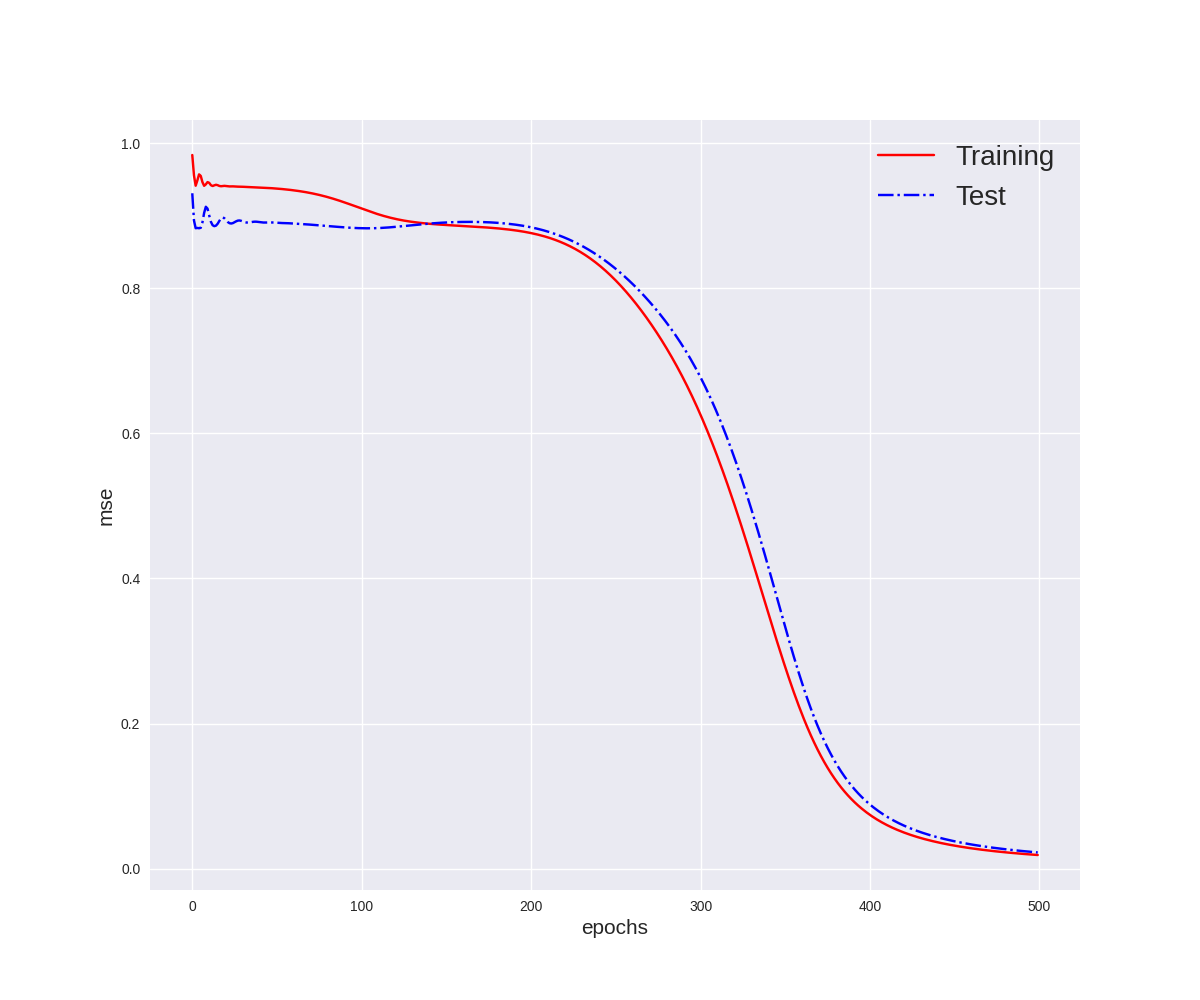
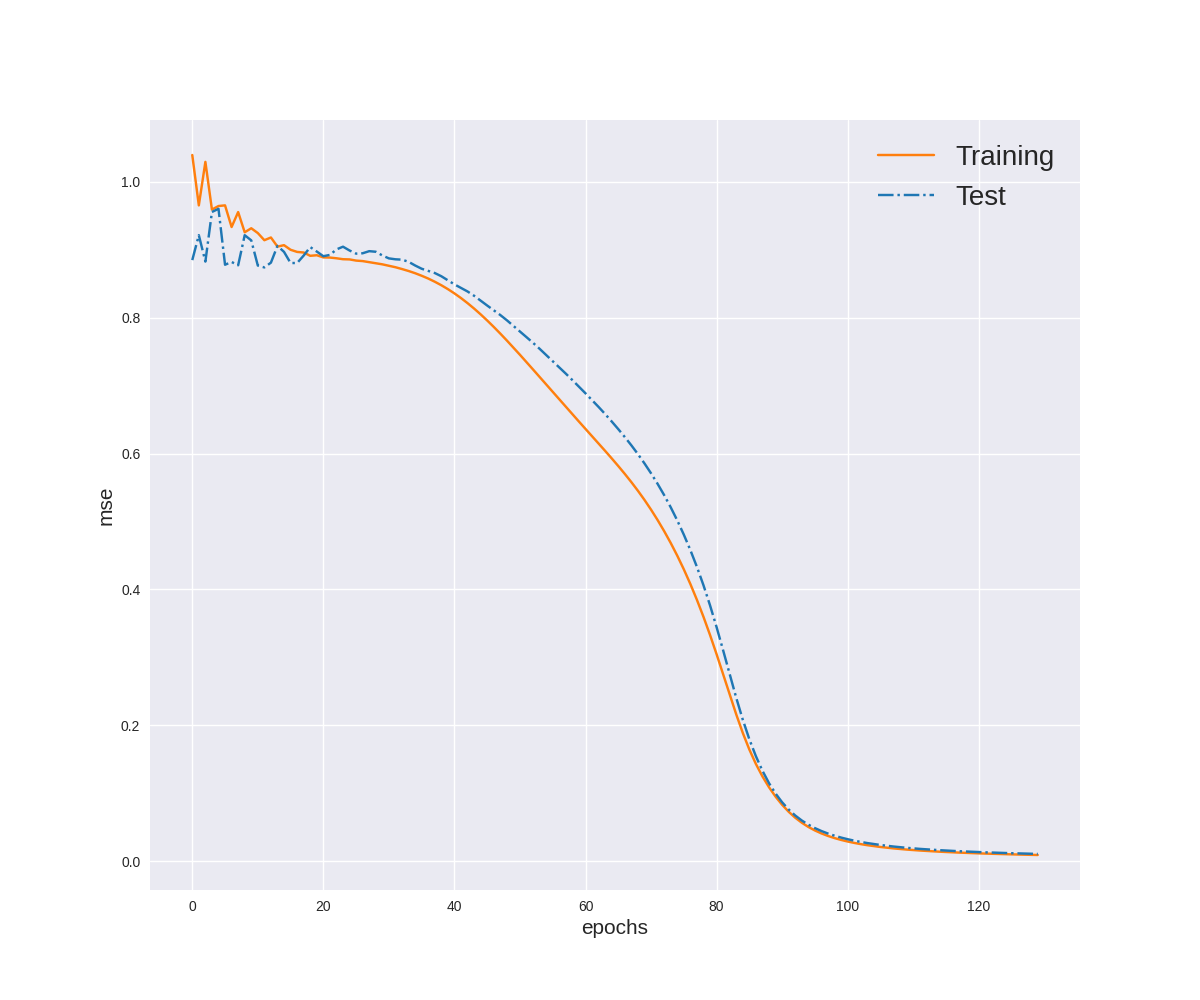
update Monks results

diff --git a/single_monk_test2.py b/single_monk_test2.py
@@ -3,19 +3,20 @@ from parser import Monks_parser
 from utility import set_style_plot
 from utility import *
 from kernel_initialization import *
+from optimizers import *
 
 set_style_plot()
 
-DIR_DATA = "/home/fabsam/Documenti/masterDegree/ML/ml_project/data/monks/"
+DIR_DATA = "./data/monks/"
 TR_FILE = 'monks-2.train'
 TS_FILE = 'monks-2.test'
 
 
 path_tr = DIR_DATA + TR_FILE
 path_ts = DIR_DATA + TS_FILE
-path_loss = 'out/monks/monk2/err_monk2.png'
-path_acc = 'out/monks/monk2/acc_monk2.png'
-path_result_model = 'out/monks/monk2/results.csv'
+path_loss = './out/monks/monk2/err_monk2.png'
+path_acc = './out/monks/monk2/acc_monk2.png'
+path_result_model = './out/monks/monk2/results.csv'
 
 dim_in = 6
 one_hot = 17
@@ -30,7 +31,7 @@ Y_test = change_output_value(Y_test, 0, -1)
 
 
 dim_in = one_hot
-dim_hid = 3
+dim_hid = 2
 n_attemps = 5
 
 res_losses = np.zeros(n_attemps)
@@ -42,16 +43,16 @@ res_metrics_ts = np.zeros(n_attemps)
 for i in range(n_attemps):
     model = NeuralNetwork('mse', 'accuracy1-1')
 
-    model.add_layer(dim_hid, input_dim=dim_in, activation='sigmoid', kernel_initialization=RandomUniformInitialization())
-    model.add_output_layer(dim_out, activation='tanh', kernel_initialization=RandomUniformInitialization())
+    model.add_layer(dim_hid, input_dim=dim_in, activation='sigmoid',
+                    kernel_initialization=RandomUniformInitialization())
+    model.add_layer(dim_out, activation='tanh', kernel_initialization=RandomUniformInitialization(-1, 1))
 
-    model.compile(0.6, 0.8)
-    history = model.fit(
-        X_train, Y_train, 500, X_train.shape[0], ts=(X_test, Y_test),
-        verbose=True
-    )
-    #if i == 0:
-    #    write_results(res=None, model=model, save_plot_loss=path_loss, save_plot_metric=path_acc, test=True)
+    model.compile(optimizer=SGD(lr=0.5, mom=0.8))
+    history = model.fit(X_train, Y_train, 130, X_train.shape[0], ts=(X_test, Y_test),
+                        verbose=True
+                        )
+    if i == 0:
+        write_results(res=None, model=model, save_plot_loss=path_loss, save_plot_metric=path_acc, test=True)
     res_losses[i] = history['mse'][-1]
     res_losses_ts[i] = history['test_mse'][-1]
     res_metrics[i] = history['accuracy'][-1]*100
@@ -68,4 +69,4 @@ res = {
 }
 
 print(res)
-#write_results(res, model=None, save_result=path_result_model, test=True)
+write_results(res, model=None, save_result=path_result_model, test=True)

diff --git a/single_monk_test3.py b/single_monk_test3.py
@@ -3,19 +3,19 @@ from parser import Monks_parser
 from utility import set_style_plot
 from utility import *
 from kernel_initialization import *
+from optimizers import *
 
 set_style_plot()
 
-DIR_DATA = "/home/fabsam/Documenti/masterDegree/ML/ml_project/data/monks/"
+DIR_DATA = "./data/monks/"
 TR_FILE = 'monks-3.train'
 TS_FILE = 'monks-3.test'
 
-
 path_tr = DIR_DATA + TR_FILE
 path_ts = DIR_DATA + TS_FILE
-path_loss = 'out/monks/monk3/err_monk3.png'
-path_acc = 'out/monks/monk3/acc_monk3.png'
-path_result_model = 'out/monks/monk3/results.csv'
+path_loss = './out/monks/monk3/err_monk3.png'
+path_acc = './out/monks/monk3/acc_monk3.png'
+path_result_model = './out/monks/monk3/results.csv'
 
 dim_in = 6
 one_hot = 17
@@ -25,10 +25,9 @@ parser = Monks_parser(path_tr, path_ts)
 
 X_train, Y_train, X_test, Y_test = parser.parse(dim_in, dim_out, one_hot)
 
-'''
+
 Y_train = change_output_value(Y_train, 0, -1)
 Y_test = change_output_value(Y_test, 0, -1)
-'''
 
 dim_in = one_hot
 dim_hid = 3
@@ -41,16 +40,17 @@ res_losses_ts = np.zeros(n_attemps)
 res_metrics_ts = np.zeros(n_attemps)
 
 for i in range(n_attemps):
-    model = NeuralNetwork('mse', 'accuracy')
+    model = NeuralNetwork('mse', 'accuracy1-1')
 
-    model.add_layer(dim_hid, input_dim=dim_in, activation='relu', kernel_initialization=RandomUniformInitialization())
-    model.add_output_layer(dim_out, activation='sigmoid', kernel_initialization=RandomUniformInitialization())
+    model.add_layer(dim_hid, input_dim=dim_in, activation='sigmoid',
+                    kernel_initialization=RandomNormalInitialization())
+    model.add_layer(dim_out, activation='tanh', kernel_initialization=RandomNormalInitialization())
 
-    model.compile(0.4, 0.6, 0.005)
-    history = model.fit(
-        X_train, Y_train, 500, X_train.shape[0], ts=(X_test, Y_test),
-        verbose=True
-    )
+    model.compile(optimizer=SGD(lr=0.5, mom=0.8, l2=0.01))
+
+    history = model.fit(X_train, Y_train, 200, X_train.shape[0], ts=(X_test, Y_test),
+                        verbose=True
+                        )
     if i == 0:
         write_results(res=None, model=model, save_plot_loss=path_loss, save_plot_metric=path_acc, test=True)
     res_losses[i] = history['mse'][-1]

diff --git a/single_monk_test3nr.py b/single_monk_test3nr.py
@@ -3,19 +3,21 @@ from parser import Monks_parser
 from utility import set_style_plot
 from utility import *
 from kernel_initialization import *
+from optimizers import *
 
 set_style_plot()
 
-DIR_DATA = "/home/fabsam/Documenti/masterDegree/ML/ml_project/data/monks/"
+DIR_DATA = "./data/monks/"
 TR_FILE = 'monks-3.train'
 TS_FILE = 'monks-3.test'
 
 
 path_tr = DIR_DATA + TR_FILE
 path_ts = DIR_DATA + TS_FILE
-path_loss = 'out/monks/monk3/err_monk3nr.png'
-path_acc = 'out/monks/monk3/acc_monk3nr.png'
-path_result_model = 'out/monks/monk3/results_nr.csv'
+path_loss = './out/monks/monk3/err_monk3nr.png'
+path_acc = './out/monks/monk3/acc_monk3nr.png'
+path_result_model = './out/monks/monk3/results_nr.csv'
+
 
 dim_in = 6
 one_hot = 17
@@ -25,10 +27,9 @@ parser = Monks_parser(path_tr, path_ts)
 
 X_train, Y_train, X_test, Y_test = parser.parse(dim_in, dim_out, one_hot)
 
-'''
+
 Y_train = change_output_value(Y_train, 0, -1)
 Y_test = change_output_value(Y_test, 0, -1)
-'''
 
 dim_in = one_hot
 dim_hid = 3
@@ -41,16 +42,17 @@ res_losses_ts = np.zeros(n_attemps)
 res_metrics_ts = np.zeros(n_attemps)
 
 for i in range(n_attemps):
-    model = NeuralNetwork('mse', 'accuracy')
 
-    model.add_layer(dim_hid, input_dim=dim_in, activation='relu', kernel_initialization=RandomUniformInitialization())
-    model.add_output_layer(dim_out, activation='sigmoid', kernel_initialization=RandomUniformInitialization())
+    model = NeuralNetwork('mse', 'accuracy1-1')
 
-    model.compile(0.4, 0.6, 0.0)
-    history = model.fit(
-        X_train, Y_train, 500, X_train.shape[0], ts=(X_test, Y_test),
-        verbose=True
-    )
+    model.add_layer(dim_hid, input_dim=dim_in, activation='sigmoid', kernel_initialization=RandomNormalInitialization())
+    model.add_layer(dim_out, activation='tanh', kernel_initialization=RandomNormalInitialization())
+
+    model.compile(optimizer=SGD(lr=0.5, mom=0.8, l2=0.0))
+
+    history = model.fit(X_train, Y_train, 200, X_train.shape[0], ts=(X_test, Y_test),
+                        verbose=True
+                        )
     if i == 0:
         write_results(res=None, model=model, save_plot_loss=path_loss, save_plot_metric=path_acc, test=True)
     res_losses[i] = history['mse'][-1]

diff --git a/test_monks.py b/test_monks.py
@@ -11,7 +11,6 @@ DIR_DATA = "./data/monks/"
 TR_FILE = 'monks-2.train'
 TS_FILE = 'monks-2.test'
 
-
 path_tr = DIR_DATA + TR_FILE
 path_ts = DIR_DATA + TS_FILE
 
@@ -23,22 +22,20 @@ parser = Monks_parser(path_tr, path_ts)
 
 X_train, Y_train, X_test, Y_test = parser.parse(dim_in, dim_out, one_hot)
 
-
 Y_train = change_output_value(Y_train, 0, -1)
 Y_test = change_output_value(Y_test, 0, -1)
 
-
 dim_in = one_hot
 dim_hid = 2
-
 model = NeuralNetwork('mse', 'accuracy1-1')
 
-model.add_layer(dim_hid, input_dim=dim_in, activation='sigmoid', kernel_initialization=RandomNormalInitialization())
-model.add_layer(dim_out, activation='tanh', kernel_initialization=RandomNormalInitialization())
+model.add_layer(dim_hid, input_dim=dim_in, activation='sigmoid',
+                kernel_initialization=RandomUniformInitialization())
+model.add_layer(dim_out, activation='tanh', kernel_initialization=RandomUniformInitialization(-1, 1))
 
 model.compile(optimizer=SGD(lr=0.5, mom=0.8))
-history = model.fit(X_train, Y_train, 90, X_train.shape[0], ts=(X_test, Y_test),
-    verbose=True
-)
+history = model.fit(X_train, Y_train, 120, X_train.shape[0], ts=(X_test, Y_test),
+                    verbose=True
+                    )
 
 model.plot_loss(test=True)
